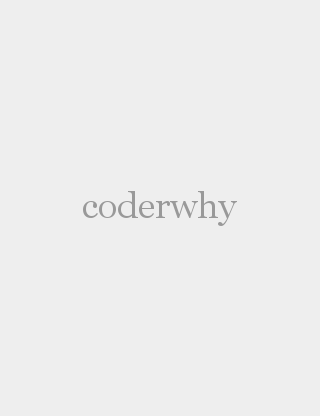
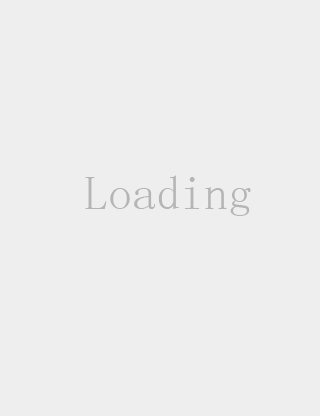
完结，撒花

Changed region(s): [[0.25, 0.4062, 0.7812, 0.5625]]

diff --git a/src/main.js b/src/main.js
@@ -4,12 +4,18 @@ import router from './router/index'
 import store from './store/index'
 // import {request} from './network/request'
 import toast from './components/common/toast'
+import FastClick from 'fastclick'
+import VueLazyload from 'vue-lazyload'
 
 Vue.config.productionTip = false
 // 事件总线
 Vue.prototype.$EventBus = new Vue()
 Vue.use(toast)
-
+Vue.use(VueLazyload,{
+  loading: require('./assets/img/common/placeholder.png')
+})
+// 解决移动端点击300ms延时
+FastClick.attach(document.body)
 new Vue({
   router,
   store,

diff --git a/src/router/index.js b/src/router/index.js
@@ -11,6 +11,11 @@ const Detail = () => import('../pages/detail/Detail.vue')
 // 安装vue-router
 Vue.use(VueRouter)
 
+//连续点击报错解决方案
+const routerPush = VueRouter.prototype.push
+VueRouter.prototype.push = function push(location) {
+  return routerPush.call(this, location).catch(error=> error)
+}
 const routes = [{
   path: '',
   // 路由重定向
@@ -31,6 +36,7 @@ const routes = [{
   path: '/detail/:id',
   component: Detail
 }]
+
 
 // 创建路由实例
 const router = new VueRouter({

diff --git a/postcss.config.js b/postcss.config.js
@@ -1,0 +1,14 @@
+module.exports = {
+  plugins: {
+    autoprefixer: {},
+    'postcss-px-to-viewport': {
+      viewportWidth: 375,
+      viewportHeight: 667,
+      unitPrecision: 5,
+      viewportUnit: 'vw',
+      selectorBlackList: ['ignore', 'tab-bar', 'tab-bar-item'],
+      minPixelValue: 1,
+      mediaQuery: false,
+    }
+  }    
+}

diff --git a/src/components/content/goods/GoodsListItem.vue b/src/components/content/goods/GoodsListItem.vue
@@ -1,6 +1,6 @@
 <template>
   <div class="goods-item" @click="goodsListItem">
-    <img :src="showImage" alt="" @load="imageLoad">
+    <img v-lazy="showImage" alt="" @load="imageLoad">
     <div class="goods-info">
       <p>{{goodsItem.title}}</p>
       <span class="price">{{goodsItem.price}}</span>

diff --git a/src/pages/profile/childComps/UserInfo.vue b/src/pages/profile/childComps/UserInfo.vue
@@ -70,8 +70,7 @@
 
   #user-info .login-info .phone .icon-mobile {
     position: absolute;
-    width: 12px;
-    height: 18px;
+    width: 15px;
     left: -15px;
     top: 0px;
   }
